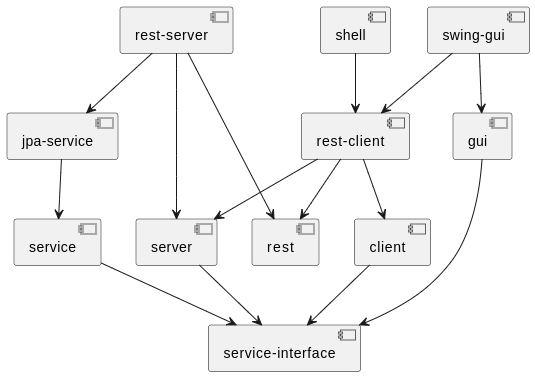
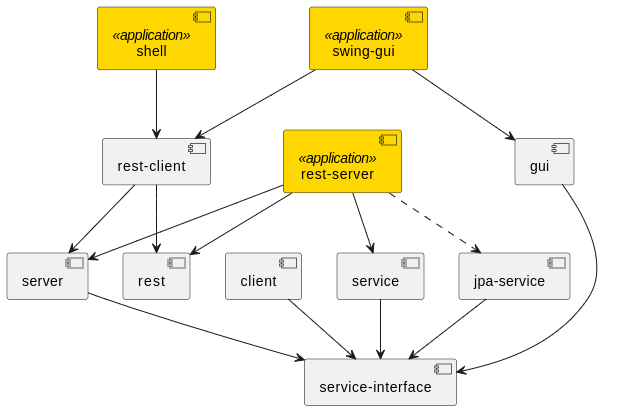
Re-structured. Added some architecture documentation.

diff --git a/docs/architecture/architecture.md b/docs/architecture/architecture.md
@@ -15,7 +15,7 @@ This document contains architecture descriptions and documentation.
 
 * SOLID
 * TDD
-* Minimal code.
+* Minimal amount of code.
 
 
 ### Relevant Stakeholders
@@ -41,10 +41,20 @@ TBD
 
 ## Building Block View
 
+### Context Diagram
+
+![context diagram](./context-diagram.png)
+
+
 ### Module Diagram Level 0
 
 ![module diagram (level 0)](./module-diagram.png)
 
+Legend
+* Stereotype "application" means, that the module contains a runnable application.
+* Dashed lines are runtime scoped dependencies.
+
+Modules
 * **client** Logic for accessing the server component.
 * **jpa-service** The JPA persistence layer implementation.
 * **gui** Logic for different GUI's.
@@ -59,12 +69,7 @@ TBD
 
 ### Component Diagram Level 1
 
-![component diagram (level 1)](./component-diagram-level-1.png)
-
-Arrows pointing in direction of access.
-
-* **carp-bm** The service and core module with the logic. This is these application.
-* **carp-bm-shell** A shell application for testings, which is able to do any possible action by shell commands.
+TBD
 
 
 ## Runtime View
